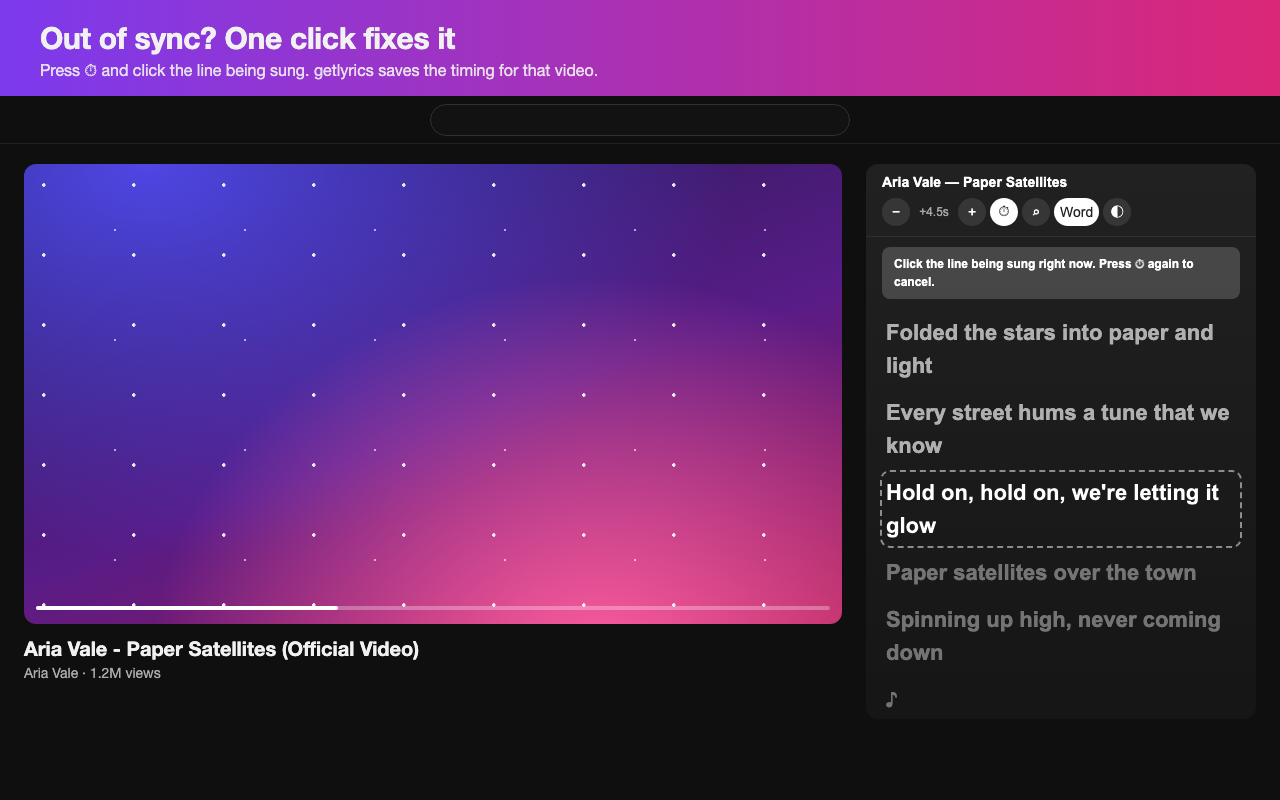
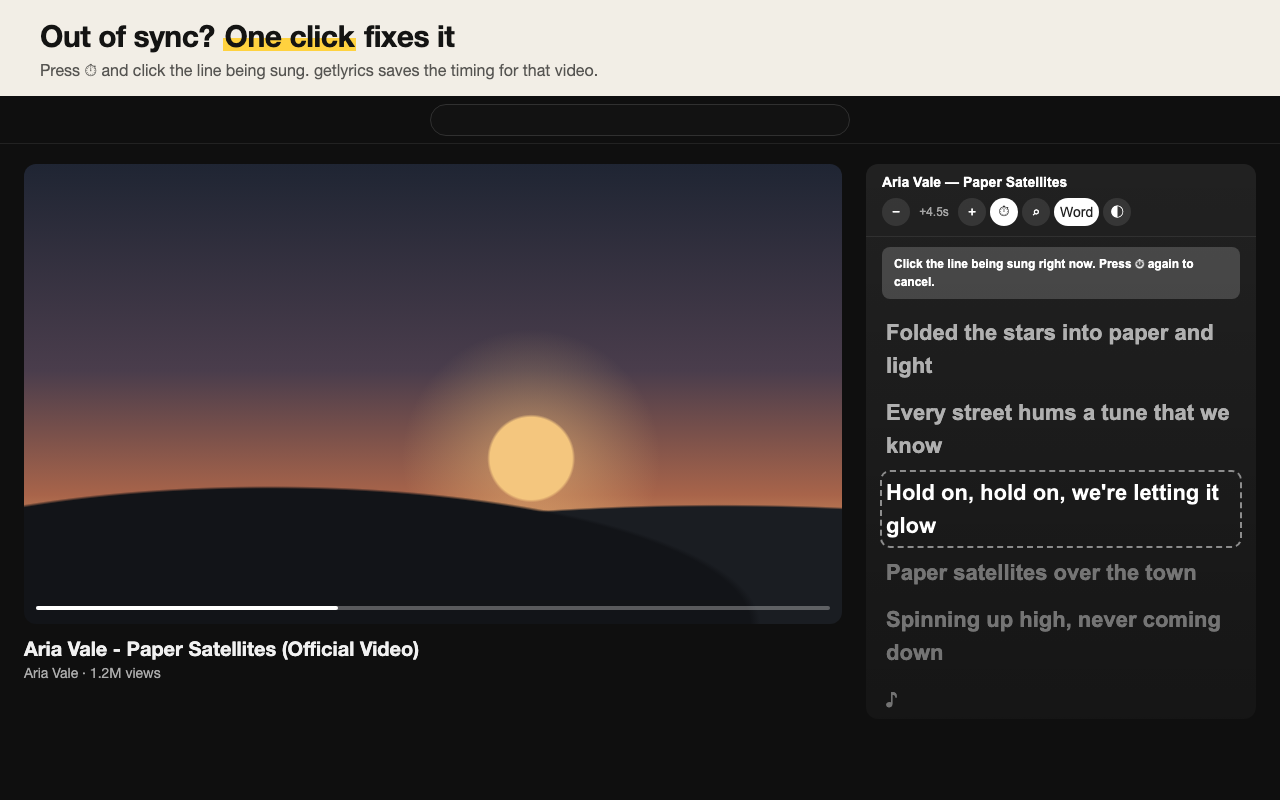
Rebrand visuals: ink, paper, highlighter yellow instead of violet-pink gradient

diff --git a/store/screenshots.js b/store/screenshots.js
@@ -52,7 +52,7 @@ function lyricLines({ upTo = 3, partial = 55, hover = false } = {}) {
 
 function panel({ theme = 'auto', body, notice = '', search = false, syncing = false, offset = '+0.0s' }) {
   return `
-  <div id="gl-panel" data-theme="${theme}" class="gl-words ${syncing ? 'gl-syncing' : ''}" style="--gl-auto: hsl(268 45% 24%)">
+  <div id="gl-panel" data-theme="${theme}" class="gl-words ${syncing ? 'gl-syncing' : ''}" style="--gl-auto: hsl(18 32% 20%)">
     <div class="gl-head">
       <div class="gl-label">${song.artist} — ${song.track}</div>
       <button class="gl-btn">−</button><span class="gl-offset">${offset}</span><button class="gl-btn">+</button>
@@ -68,11 +68,10 @@ function panel({ theme = 'auto', body, notice = '', search = false, syncing = fa
 
 const videoArt = `
   background:
-    radial-gradient(circle at 22% 30%, rgb(255 255 255 / .9) 0 1.5px, transparent 2px) 0 0 / 90px 70px,
-    radial-gradient(circle at 70% 60%, rgb(255 255 255 / .6) 0 1px, transparent 1.5px) 0 0 / 130px 110px,
-    radial-gradient(ellipse at 70% 110%, #ff5fa2 0%, transparent 55%),
-    radial-gradient(ellipse at 15% 0%, #4f46e5 0%, transparent 60%),
-    linear-gradient(160deg, #1e1b4b, #581c87 55%, #9d174d);`;
+    radial-gradient(ellipse 60% 30% at 30% 100%, #121418 98%, transparent 100%),
+    radial-gradient(ellipse 70% 26% at 85% 100%, #1a1d22 98%, transparent 100%),
+    radial-gradient(circle at 62% 64%, #f4c67e 0 7%, rgb(244 198 126 / .35) 7.5%, transparent 22%),
+    linear-gradient(180deg, #1f2533 0%, #4a3d4c 45%, #a8644a 72%, #c98a5c 80%);`;
 
 function page({ caption, sub, content }) {
   return `<!doctype html><html><head><meta charset="utf-8"><style>
@@ -80,9 +79,10 @@ function page({ caption, sub, content }) {
   * { box-sizing: border-box; }
   body { margin: 0; width: 1280px; height: 800px; overflow: hidden; background: #0f0f0f; color: #f1f1f1;
          font-family: Roboto, "Helvetica Neue", Arial, sans-serif; }
-  .cap { height: 96px; padding: 20px 40px; background: linear-gradient(90deg, #7c3aed, #db2777); }
-  .cap h1 { margin: 0; font-size: 30px; font-weight: 700; letter-spacing: -0.01em; }
-  .cap p { margin: 4px 0 0; font-size: 16px; opacity: .9; }
+  .cap { height: 96px; padding: 18px 40px; background: #f2eee6; color: #141413; }
+  .cap h1 { margin: 0; font-size: 30px; font-weight: 700; letter-spacing: -0.015em; }
+  .cap mark { background: linear-gradient(transparent 55%, #ffd23f 55%, #ffd23f 92%, transparent 92%); color: inherit; padding: 0 2px; }
+  .cap p { margin: 6px 0 0; font-size: 16px; color: rgb(20 20 19 / .7); }
   .bar { height: 48px; display: flex; align-items: center; justify-content: center; border-bottom: 1px solid #222; }
   .bar div { width: 420px; height: 32px; border: 1px solid #303030; border-radius: 16px; background: #121212; }
   .watch { display: flex; gap: 24px; padding: 20px 24px 0; }
@@ -128,12 +128,12 @@ const results = [
 
 const shots = {
   '1-synced-panel': page({
-    caption: 'Synced lyrics, right beside the video',
+    caption: '<mark>Synced lyrics</mark>, right beside the video',
     sub: "Lines light up as they're sung. Click any line to jump there.",
     content: watch(panel({ body: `<div class="gl-body gl-pad">${lyricLines()}</div>` })),
   }),
   '2-fullscreen': page({
-    caption: 'Sing along in fullscreen',
+    caption: 'Sing along in <mark>fullscreen</mark>',
     sub: 'Karaoke-style word highlighting that works in any language.',
     content: `<div class="full"><div class="progress"><i></i></div>
       <div id="gl-overlay" class="gl-show gl-words" style="bottom: 12%">
@@ -142,7 +142,7 @@ const shots = {
       </div></div>`,
   }),
   '3-quick-sync': page({
-    caption: 'Out of sync? One click fixes it',
+    caption: 'Out of sync? <mark>One click</mark> fixes it',
     sub: 'Press ⏱ and click the line being sung. getlyrics saves the timing for that video.',
     content: watch(
       panel({
@@ -155,7 +155,7 @@ const shots = {
     ),
   }),
   '4-search-and-themes': page({
-    caption: 'Wrong version? Pick the right one',
+    caption: 'Wrong version? <mark>Pick the right one</mark>',
     sub: 'Search LRCLIB and getlyrics remembers your choice. Themes: thumbnail color, dark, or light.',
     content: watch(panel({ theme: 'light', search: true, body: `<div class="gl-body">${results}</div>` })),
   }),

diff --git a/store/icon.py b/store/icon.py
@@ -1,0 +1,32 @@
+# Renders icons/icon{16,32,48,128}.png. Needs Pillow: python3 store/icon.py
+# Ink square, three lyric lines; the middle one is half "sung" in highlighter yellow.
+from pathlib import Path
+from PIL import Image, ImageDraw
+
+INK = (20, 20, 19, 255)
+PAPER = (242, 238, 230)
+HIGHLIGHT = (255, 210, 63, 255)
+S = 1024  # draw large, downscale for clean edges
+
+icon = Image.new("RGBA", (S, S))
+d = ImageDraw.Draw(icon)
+d.rounded_rectangle([0, 0, S - 1, S - 1], radius=int(S * 0.22), fill=INK)
+
+h = int(S * 0.12)
+x0 = int(S * 0.19)
+
+
+def bar(cy, x1, fill):
+    y = int(S * cy)
+    d.rounded_rectangle([x0, y - h // 2, int(S * x1), y + h // 2], radius=h // 2, fill=fill)
+
+
+dim = PAPER + (80,)
+bar(0.29, 0.62, dim)
+bar(0.50, 0.81, PAPER + (255,))
+bar(0.50, 0.55, HIGHLIGHT)  # sung part of the current line
+bar(0.71, 0.50, dim)
+
+out = Path(__file__).resolve().parent.parent / "icons"
+for size in (16, 32, 48, 128):
+    icon.resize((size, size), Image.LANCZOS).save(out / f"icon{size}.png")

diff --git a/README.md b/README.md
@@ -61,7 +61,7 @@ Issues and PRs are welcome.
   ```
 
   This needs Node 20 or newer.
-- **Screenshots**: `store/screenshots.js` renders the store images from mock pages that use the real `content.css`, with a made-up song. To regenerate them, run `CHROME=/path/to/chrome node store/screenshots.js`.
+- **Screenshots**: `store/screenshots.js` renders the store images from mock pages that use the real `content.css`, with a made-up song. To regenerate them, run `CHROME=/path/to/chrome node store/screenshots.js`. The icons come from `python3 store/icon.py`, which needs Pillow.
 
 ## Credits
 
